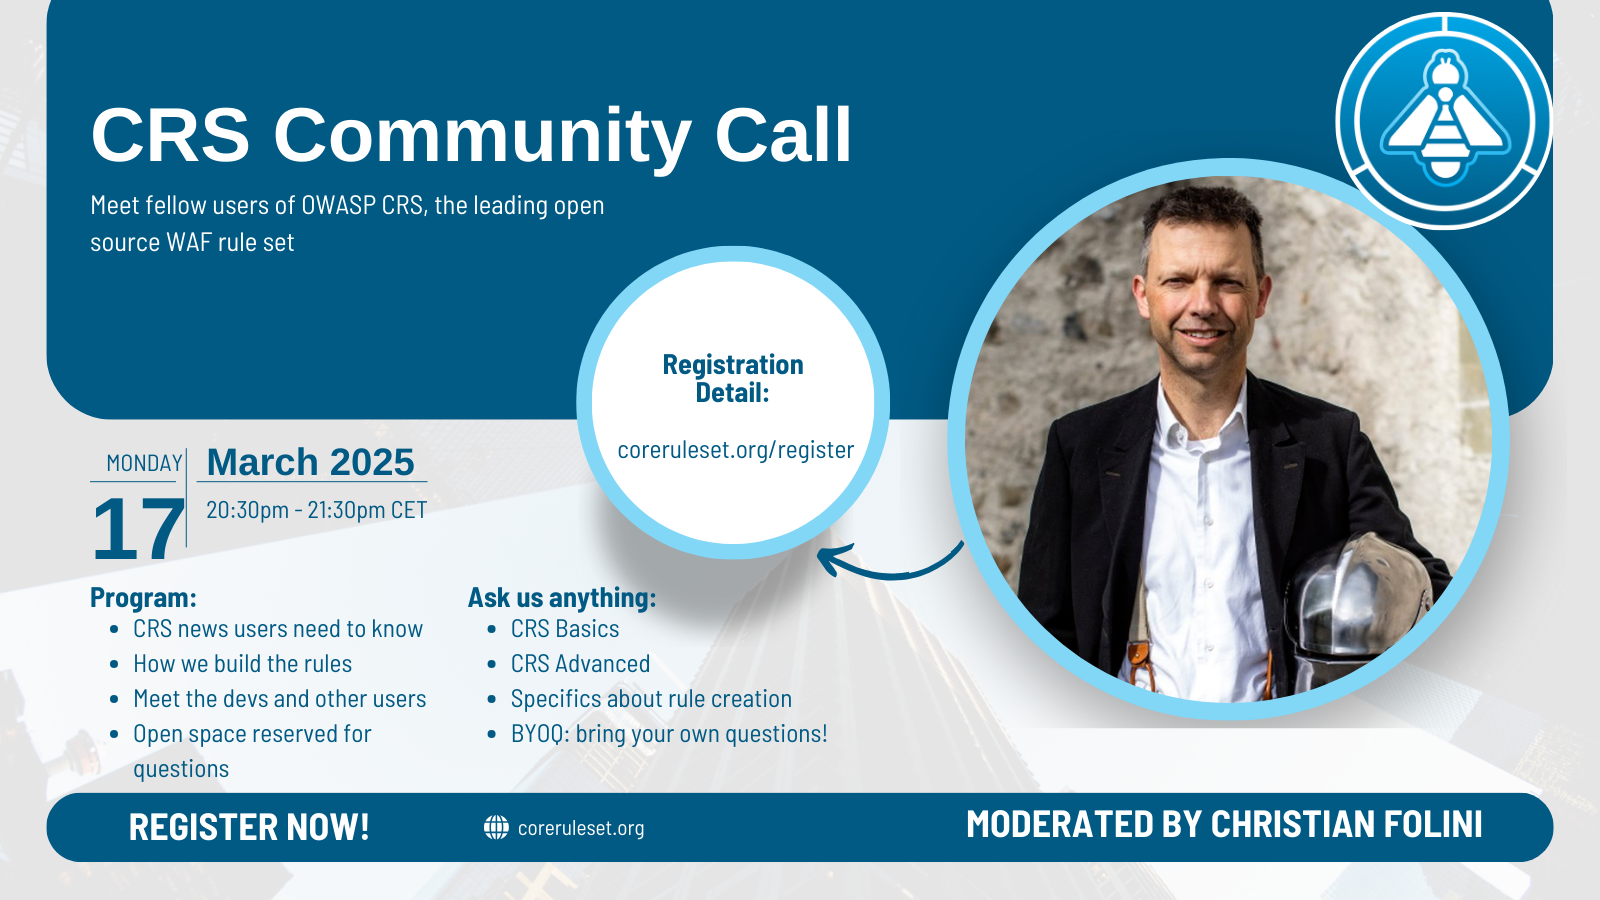
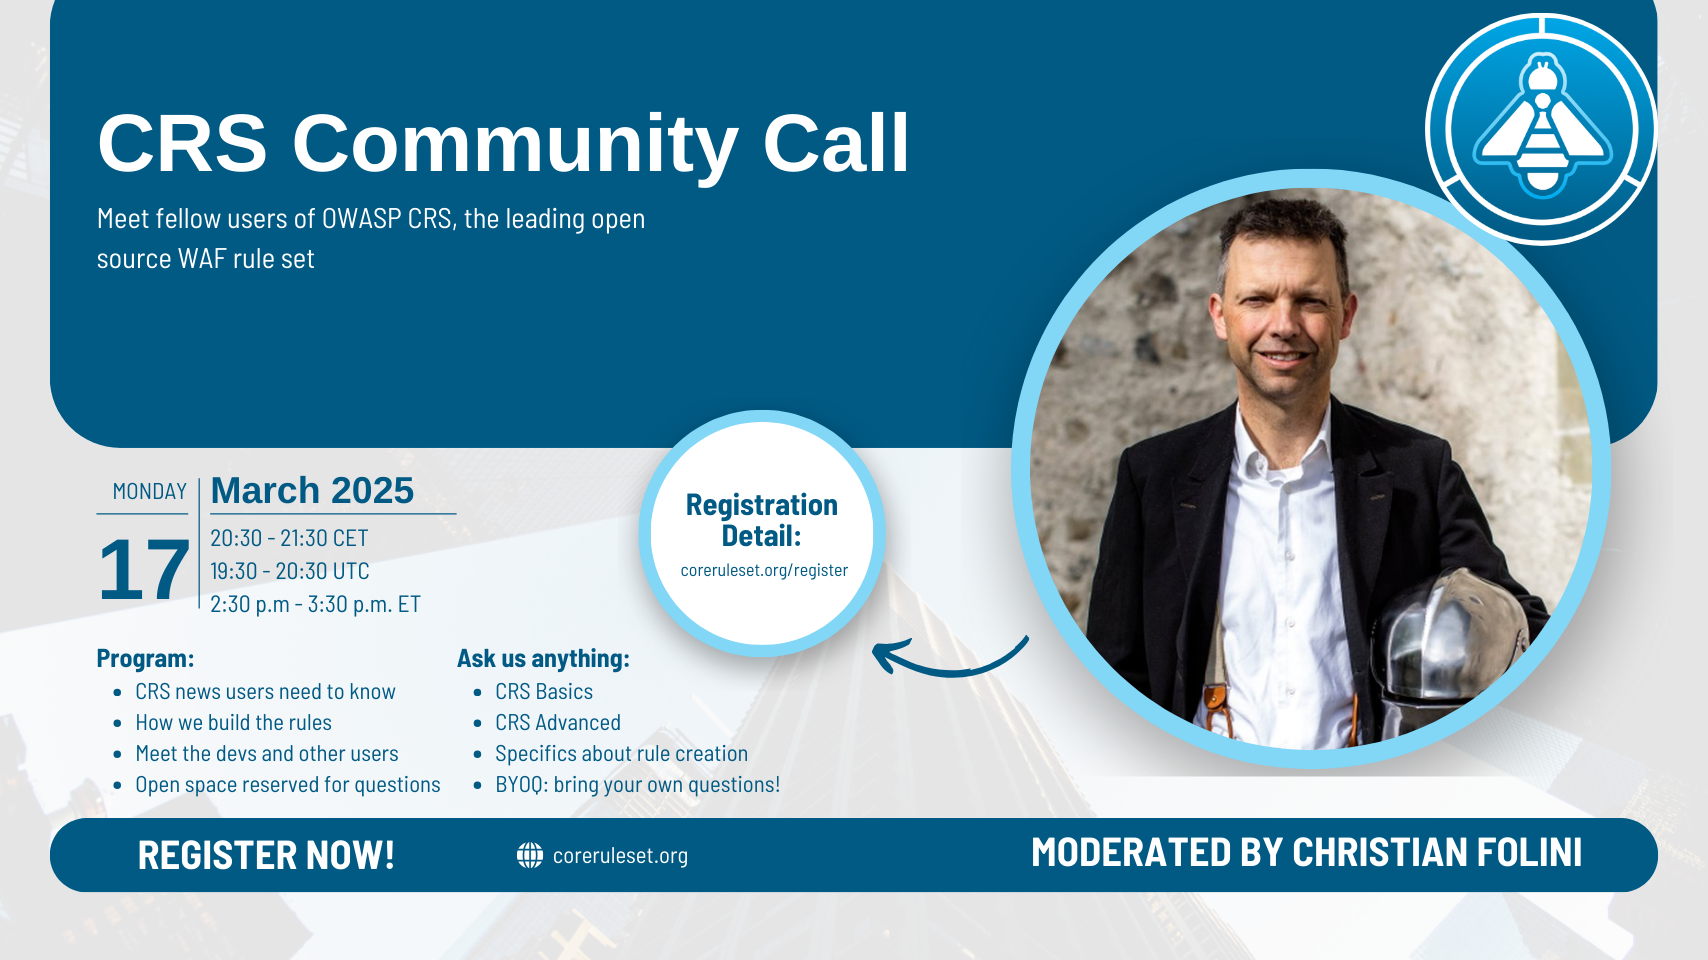
chore: apply review suggestions

diff --git a/content/blog/2025-01-30-first-crs-community-call.md b/content/blog/2025-01-30-first-crs-community-call.md
@@ -6,22 +6,22 @@ title: 'First CRS community call'
 author: theseion
 ---
 
-CRS is the leading open source WAF rule set and to a very large part this is thanks to our community who report problems with rules and tell us about real world issues they are experiencing. Unfortunately, CRS is also quite complex and first (or even second) contact can be quite daunting. While we constantly try to reduce the complexity, we also want make it easier for people to start working with CRS.
+CRS is the world's leading open source WAF rule set. A very large part of this success is thanks to our amazing community who report problems with the rules and tell us about real world issues they experience. Due to its nature, CRS is also quite complex and first (or even second) contact with using CRS can be quite daunting. We constantly try to reduce the level of complexity: we want make it _easier_ for people to start working with CRS.
 
 ## Community Calls
 
-We were recently inspired by the [SAMM project](https://owaspsamm.org), who regularly organize moderated video chats with their community, where they talk about project updates and answer questions. We think that this kind of interaction might help newcomers and might also interest more seasoned CRS users and we want to give it a shot. Our first community call, which will be a trial run, will take place on March 17 and will be moderated by former CRS co-leader Christian Folini (yes, he wrote [the book](https://www.feistyduck.com/books/modsecurity-handbook/)). We have the following program planned:
+We were recently inspired by the [SAMM project](https://owaspsamm.org): they regularly organize moderated video chats with their community where they talk about project updates and answer questions. We think that this kind of interaction might help newcomers and might also interest more seasoned CRS users, so we want to give it a shot. Our first community call, which will be a trial run, will take place on **Monday 17 March** and will be moderated by former CRS co-leader Christian Folini (yes, he wrote [the book](https://www.feistyduck.com/books/modsecurity-handbook/)). We have the following program planned:
 - CRS news users need to know
 - How we build the rules
 - Meet the devs and other users
-- Open space reserved for questions
+- Dedicated time reserved for your questions
 
-In the last segment, we want to give anyone the possibility to ask any questions, be it CRS basics like default configuration, advanced topics like rule exclusions, or questions about rule development and tooling.
+In the last segment, we want to give you time to ask any questions, be it CRS basics like default configuration, advanced topics like rule exclusions, or questions about rule development and tooling.
 
 ## When And Where
 
 {{< figure src="images/2025/community-call-2025-03-17.png" alt="Join the first CRS community call with Christian Folini" >}}
 
-The first community call will take place on **March 17, from 20:30 to 21:30 CET**. Head over to the [registration page]({{% ref "/registration.md" %}}) to grab the link to the call.
+The first community call will take place on **March 17, from 20:30 to 21:30 CET** (19:30 UTC / 2:30 p.m. ET). Head over to the [registration page]({{% ref "/registration.md" %}}) to grab the link to the call.
 
 We're looking forward to seeing some old and, hopefully, many new faces :wave:.
